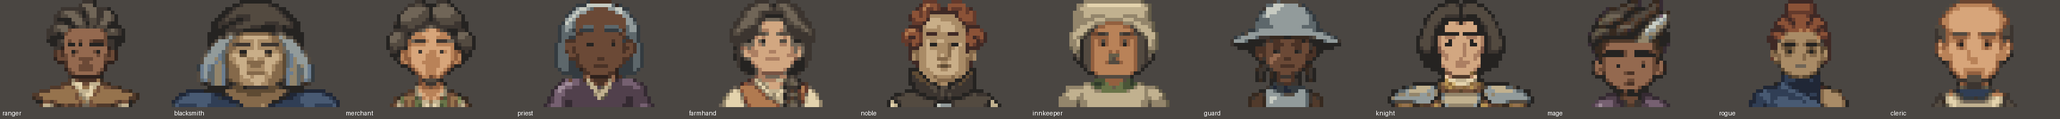
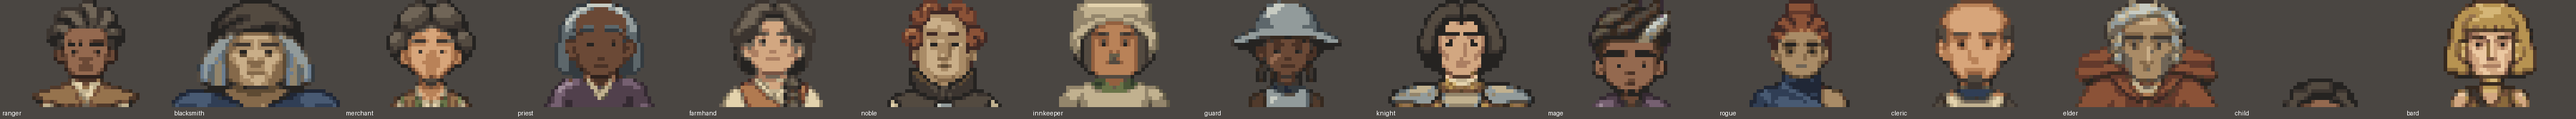
art-drop: figure r22 fresh designs batch: elder child bard

diff --git a/art-drop/figures/r22/run/NOTES-child.md b/art-drop/figures/r22/run/NOTES-child.md
@@ -1,0 +1,41 @@
+# Davi Ren — production notes
+
+## Files and checks
+
+- `big/`: 15 selected full-body originals on magenta, one figure per image.
+- `sprites/`: 15 transparent 96 × 128 RGBA sprites. All have binary alpha, crown on row 55, and lowest sole on row 124: 70 occupied rows.
+- `child-sheet.png`: 1152 × 1536, nearest-neighbour 3× presentation on #4a4642. Rows are standing front/side/back, walk-side 0–3, walk-front 0–3, walk-back 0–3. The unused fourth standing cell is blank.
+- Three walking GIFs: 288 × 384, four frames each, 160 ms per frame, looping, on #4a4642. All decoded frames were inspected in contact strips. I did not assess real-time playback in a game engine.
+- `child-face.png`: 6× standing-front crop. The crop is source columns 32–63 and rows 33–81. It extends below the suggested row 60 because the child's crown is at row 55 and his eyes are near row 67; ending at row 60 would exclude the face.
+- The union of opaque sprite colors is exactly 24 colors, all from charcoal, leather, moss, gold, linen, and deep skin. No extra ramp was added. No pure black or white is used in the sprites.
+
+## Drawing and reduction
+
+The built-in image tool drew every full figure. The right-facing side was drawn first and corrected before becoming the identity reference for every other view. Only this run's own Davi images were used as image references. No existing sprite, reference image, repository, or unrelated Downloads folder was consulted.
+
+Python/Pillow was used for magenta keying, foreground bounds, BOX area reduction, material-mask palette snapping, binary alpha, placement, crop/sheet/GIF assembly, and checks. It did not draw limbs, poses, hair, clothing, boats, or facial features. Skin masks use source color plus face/neck and hand regions. Existing dark source marks have their own coverage mask to keep palette snapping from relabelling their brown mixtures as skin. This is color classification of drawn marks, not insertion of replacement eyes. The masks and reduction scripts are in `../scratch/`.
+
+The full sheet and face crop were opened at their actual exported sizes. Every original drawing was inspected, as were the reduced views, enlarged face checks, material-mask checks, and decoded GIF frames. Technical check details are in `../scratch/validation.json`. Prompt records are in `../scratch/prompts.json` and `../scratch/front-redraw-prompt.txt`.
+
+## Redraws
+
+1. Side master: the first boat was substantially oversized. A second drawing reduced it before generating other views.
+2. Walk-side 3: redrawn to reduce the boat and bring the passing foot closer to the support leg. The revised passing silhouette is better, though the toy still reads wider than the master toy.
+3. Walk-front 0 and 3: face-pass redraws requested clearer charcoal eyes after the initial reductions lost contrast. The redraws changed the source eyes only slightly. Carrying the source material masks through the same area reduction improved their survival.
+4. Standing front: redrawn again for distinct charcoal eyes and a warm nose plane. This is the selected front original and the face-crop source.
+
+Superseded originals and intermediate files remain in `../scratch/`. There were 20 image-tool drawings in total: 15 first versions plus five redraws.
+
+## Honest weaknesses and unmet details
+
+- The eyes survive, but the exact one-pixel rule is not uniform across all walking frames. Some have a second adjacent dark pixel; walk-front 0 and 3 retain heavier, less even eye clusters. No claim of a perfect strict face-pass result across all ten face-bearing views is intended. Profiles show only the anatomically visible eye, rather than the literally requested “both eyes.”
+- Faces and hair shading vary between independently drawn front frames. Walk-front 1 reads darker and slightly narrower. Back hair highlight shapes change noticeably. The cycles therefore have shading and silhouette flicker, despite consistent crown/sole placement.
+- The head is roughly 19–21 logical pixels tall depending on view, rather than an exact 23-pixel head unit. The result is a slight child, but the construction is approximate.
+- Contact and passing poses are distinct, but foot articulation and opposite-arm timing are not mechanically exact. The side contacts are somewhat long; front/back contact depth is simplified. These are usable four-pose previews, not a rigorously registered final animation set.
+- The boat remains in the intended right hand, but its apparent length and shape vary. At sprite size the moss top and leather hull can read as a small green-topped bundle instead of unmistakably a boat. Some grips and finger divisions are less clean than the requested mitten shape.
+- The short plaits read as blunt lateral tabs rather than visibly braided hair. Profile usually exposes only one tab. This preserves the silhouette hook but does not prove two separate plaits from every angle.
+- Box reduction and palette snapping leave occasional isolated transition pixels, uneven outlines, and broad highlight areas. The requested predominantly 2–6-pixel clusters, strict one-pixel local-material contours, and sparse highlights are not uniformly achieved. Skin/hand material boundaries are mask-based approximations, especially where the brown boat meets the hand; perfect semantic separation is not guaranteed.
+- The image-tool originals contain more than the final palette and slight color variation; the 24-color guarantee applies to the reduced sprites. The sheet/GIFs add their required preview background color.
+- The literal “read nothing outside this folder” restriction was not completely met: a higher-priority tool instruction required reading the installed image-generation skill outside the folder. No outside artwork or project content was read. The image service also automatically stores its own originals outside the workspace; the delivered originals were saved from returned image bytes into this folder, without opening those external copies. All task scripts, intermediates, and delivered files written by the local workflow are inside this folder.
+
+These limitations remain after the redraws and review; the set should not be described as satisfying every written style rule exactly.

diff --git a/art-drop/figures/r22/run/NOTES-bard.md b/art-drop/figures/r22/run/NOTES-bard.md
@@ -1,0 +1,44 @@
+# Mirel Sorn — bard
+
+## Delivered and checked
+
+- Fifteen separate image-tool originals in `big/`, each containing one full-body figure on magenta; fifteen corresponding transparent sprites in `sprites/`.
+- Every sprite is 96 × 128 RGBA, uses binary alpha, starts at occupied row 33, and has its lowest supported sole at row 124. Rows 0–32 and 125–127 are transparent. The complete equipped silhouette is horizontally centred to the nearest pixel.
+- The combined sprite palette contains 23 colours, all from the six permitted charcoal, leather, gold, linen, steel and fair ramps. No added ramp, pure black or pure white.
+- `bard-sheet.png` is 1152 × 1536, exactly 3×. Its rows are standing front/side/back, walkside 0–3, walkfront 0–3, and walkback 0–3. Background is #4a4642.
+- All three GIFs are 288 × 384, four frames, 160 ms per frame, looping, on the same background. Their decoded frames were inspected in sequence strips.
+- `bard-face.png` is the front crop covering logical rows 33–60, enlarged 6× without smoothing. The sheet and face crop were inspected at their full saved dimensions.
+- All five frontal faces have two isolated charcoal eye pixels with fair-skin pixels immediately on both horizontal sides. Each of the five profiles has one such visible eye. No glints were added. The back views show no face.
+
+## Drawing and reduction
+
+The built-in image tool drew every figure, including every redraw. There were 25 drawings in total, of which 15 are selected for delivery. No existing sprite or external reference image was used. The side was established first; every other view included that side drawing as its reference. Corrected front walks additionally used this run's corrected front drawing.
+
+Python/Pillow was used only for magenta keying, skin/material masks, BOX area reduction, palette snapping, binary transparency, placement, sheets, crops, GIFs and checks. No eyes, facial features, limbs, costumes or poses were painted or assembled in code. Face-region skin coverage was adjusted during palette snapping to prevent partially covered eye-edge pixels from incorrectly becoming gold or linen. The actual dark eye marks come from the source drawings.
+
+Intermediate drawings, reduction/check scripts, reports and the complete prompt specification are in `../scratch/`, especially `prompt-set.json`, `process.py` and `check-report.json`.
+
+## Redraws
+
+- The initial side was too elongated. Three side redraws explored head/body proportions; one overcorrected the head size and was rejected.
+- The standing front was redrawn for clearer eyes, a visible charcoal strap and the correct skirt direction: high at the viewer's left knee, low at the viewer's right ankle.
+- All four front walks were redrawn using that corrected front, repairing inconsistent/reversed hems and improving face consistency.
+- The standing side and side-walk passing frame 1 received additional image-tool face passes because their reduced eyes were weak.
+- All selected originals and all reduced views were visually reviewed. Weak versions were retained only as scratch intermediates.
+
+## Honest weaknesses and rules not fully met
+
+This is a complete deliverable set, but it is not a claim of exact artistic compliance with every written rule.
+
+- Head proportions still vary slightly: some profiles and rear views are closer to roughly 4.5–4.8 heads than a strict four-head construction. The front heads are larger than the original locked side. Crown-to-chin is not uniformly 23 pixels.
+- The long skirt corner sometimes stops above the ankle, and the short edge is not identically knee-high in every view. The corrected front/rear diagonal direction is consistent, but hem length and folds still drift.
+- The front strap reads clearly. Side straps merge into dark/brown clothing boundaries, and the rear drawings do not clearly show the required diagonal strap across the back. The generated dark neck band can read as a choker.
+- The bob is recognisable, but its four sections are not equally clear in all views. Rear highlight/lock shapes vary, and the front redraws expose both ears rather than showing only the specified right-side tuck.
+- Front noses are more strongly vertical than the requested small warm plane. Mouth shadows remain readable but are wider and softer than the strict 1–2-pixel target. Eyebrows can merge with nearby shadow clusters. Fine hand anatomy and thumb notches are not uniformly legible after reduction.
+- The walks are restrained but somewhat stiff. Side contact frames 0 and 2 are too similar to prove an unambiguous exchange of the anatomical legs under the skirt. Head, skirt and equipment registration drifts slightly between individually drawn frames; some foot sliding and a small head-size pulse remain. Rear hair shading also flickers.
+- BOX reduction followed by snapping introduces some isolated pixels and uneven local outline thickness. The result is less clean than a fully hand-authored native-resolution sprite. Skin-mask boundaries at tiny ears, hands and garment overlaps are approximations, despite the explicit fair-ramp face treatment and eye-neighbour checks.
+- A literal demand for two eyes in profile was interpreted anatomically: one visible eye in a strict side view, two in front.
+
+## Folder-boundary qualification
+
+No other character art, Downloads folder, repository contents or existing sprites were read. One installed image-generation instruction file outside this folder was read because the runtime required that skill workflow. The image service also automatically saved its generated images outside this folder; delivery copies were written here from the returned image data, without opening those external files. Thus the absolute requirement that nothing whatsoever be read or saved outside this folder was not fully achievable in this tool workflow.

diff --git a/art-drop/figures/r22/run/NOTES-elder.md b/art-drop/figures/r22/run/NOTES-elder.md
@@ -1,0 +1,39 @@
+# Enna Kes — production notes
+
+## Delivered
+
+- Fifteen full-body image-tool originals in `big/`, one figure per file on magenta.
+- Fifteen transparent 96 × 128 RGBA sprites in `sprites/`.
+- `elder-sheet.png`: 1152 × 1536, nearest-neighbor 3× display on #4A4642. Rows are standing front/side/back (last cell empty), walk-side 0–3, walk-front 0–3, walk-back 0–3.
+- Three 288 × 384 walking GIFs, four frames each, 160 ms per frame, looping on #4A4642.
+- `elder-face.png`: front crop from logical coordinates x=28–67, y=33–60, shown at 6×.
+
+All sprites have their crown on row 33 and lowest sole on row 124. Rows 0–32 and 125–127 are transparent. Alpha is exclusively 0 or 255. The union of opaque sprite colors is exactly the 24 specified colors from auburn, charcoal, leather, linen, steel and olive. No extra ramp was added. The display background and originals' magenta are not sprite palette colors.
+
+## Process and redraws
+
+The right-facing standing side was drawn first from the written design. Every other view used that side as a reference; front and rear walking views also used this run's corresponding standing view. No external character image, existing sprite, repository or other Downloads folder was used as a reference.
+
+Every figure and every change to facial features, hands, equipment or pose was drawn with the built-in image tool. Python performed background keying, source-space skin/material masking, BOX area reduction, palette snapping, external contour repair, sheet/GIF assembly and checks. It did not draw eyes, mouths, limbs or poses. Final selected originals are unmodified image-tool files.
+
+The first front drawing had three hands and was rejected. All ten face-visible views received an image-tool face redraw after reduction exposed weak eyes and busy face planes. Standing front and walk-front 0 each received a second face redraw. Walk-side 0 needed a further fan-only redraw because the earlier correction still splayed the slats. Rejected and superseded drawings are retained in `../scratch/`.
+
+An initial color-only skin mask incorrectly assigned some skin to leather/auburn. Explicit anatomical masks and separate skin/non-skin palette snapping replaced it. Non-skin facial marks use charcoal/steel snapping. A one-pixel external local-color contour was restored after reduction; no internal facial features were painted.
+
+The final standing front has two distinct dark charcoal eye pixels at (44,45) and (51,45), with olive pixels on both horizontal sides. Other front views have two visible marks; profiles have the one anatomically visible eye. The instruction saying “both eyes” was interpreted accordingly for strict profiles. All originals, reduced-frame previews, the full-size final sheet, the 6× face crop, the face comparison and the decoded GIF frames were visually inspected. GIF frame counts and timing were checked from the encoded files; motion was assessed from the decoded frame sequences rather than a live animation player.
+
+## Honest weaknesses and rules not met exactly
+
+- Some walking eyes occupy two adjacent dark pixels rather than exactly one; their surrounding lids and brow shadows vary. The face redraws improved readability but also simplified some age cues. The standing face is quieter and less deeply lined than the initial design suggests.
+- Several mouth shadows and profile nose contours exceed the exact 1–2-pixel mouth / one-pixel nose ideal. These were not patched by code.
+- Small isolated pixels remain in the hair, coat and skirt after area reduction and palette snapping. The strict ban on incidental singleton pixels is not fully met. Some internal creases are heavier than the ideal one-pixel outline.
+- Skin masks are geometric and color-assisted, not a hand-audited segmentation of every source edge pixel. Hair/skin, cuff/hand and cheek boundaries can retain mixed material assignments. I cannot certify the absolute “every skin pixel and nothing else” requirement at those boundaries.
+- Independent drawings cause slight changes in folds, face planes, hood width and coat shading between frames. These can produce visible flicker. The side cycle's near/far leg exchange is less explicit than the front and rear cycles; frame 3 reads close to a standing pose. Profile arm depth is also ambiguous even though the front view clearly assigns the fan to the anatomical left hand.
+- The rear hood reads as two substantial stacked shelves; it is somewhat oversized. The fan is closed in the selected drawings but its apparent thickness varies.
+- Original generated backgrounds and colors are approximate, not exact flat hex values everywhere. Keying and palette snapping enforce the export constraints.
+
+## Workspace exception
+
+The literal request to read and work only inside this folder was not fully met: a higher-priority tool instruction required reading the installed image-generation skill outside the folder. The built-in image tool also saves originals to its external generated-image cache; only this run's generated originals were copied from there into this folder. No other outside artwork or project files were inspected. All task scripts, previews, rejected variants and reports are in `../scratch/`; final deliverables are here.
+
+The saved prompt set is `../scratch/prompts.json`. Reproduction scripts are `../scratch/process.py` and `../scratch/assemble.py`; measured checks are in `../scratch/final-checks.json`.
